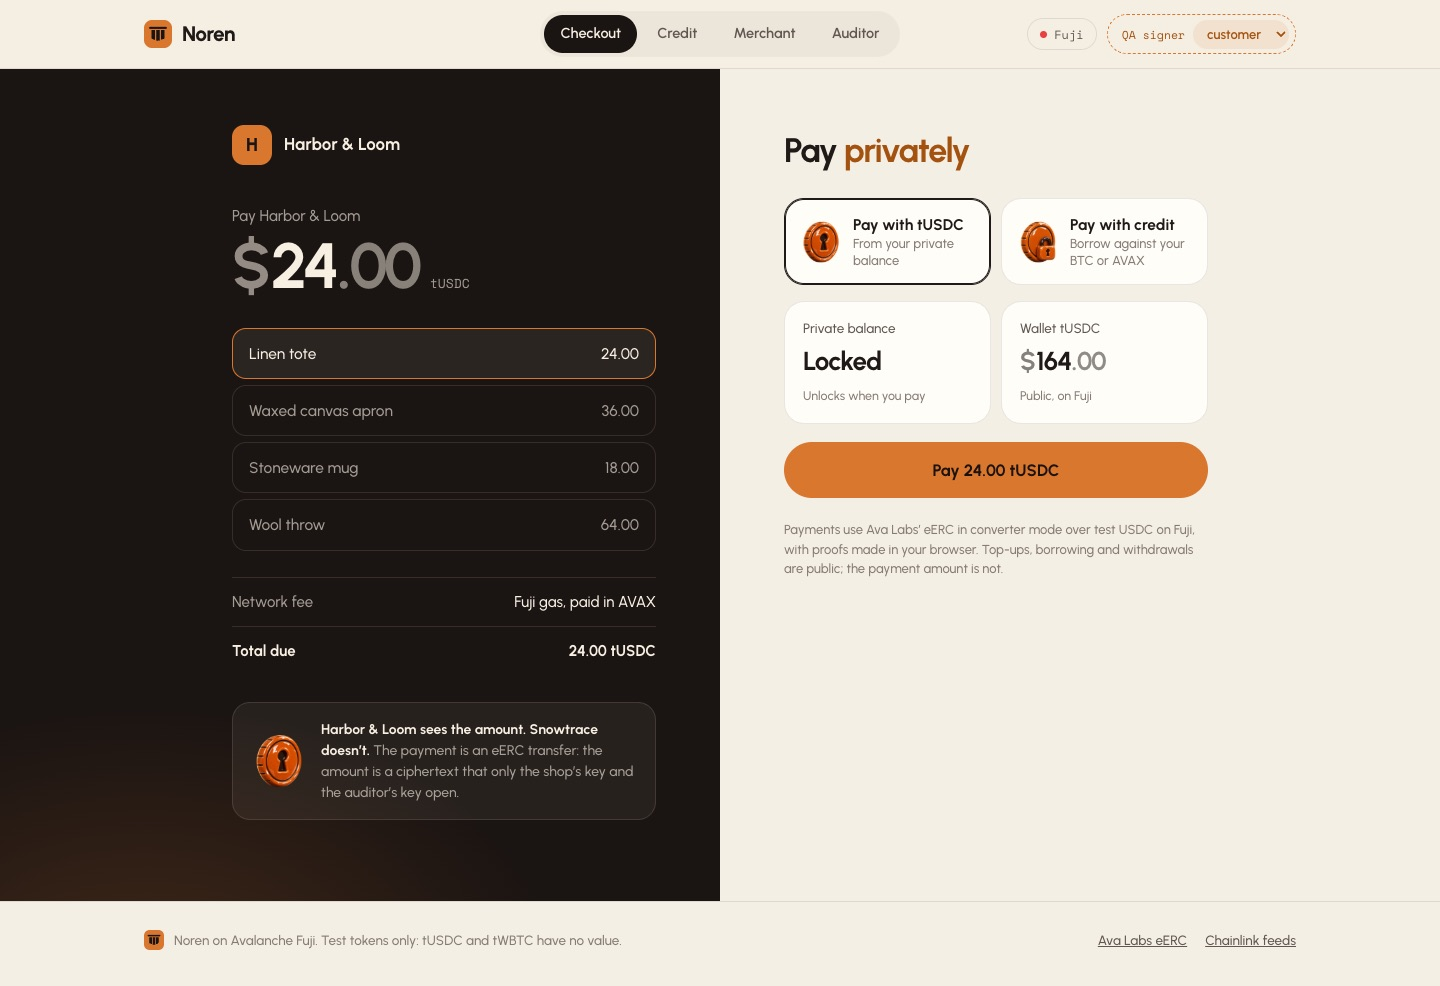
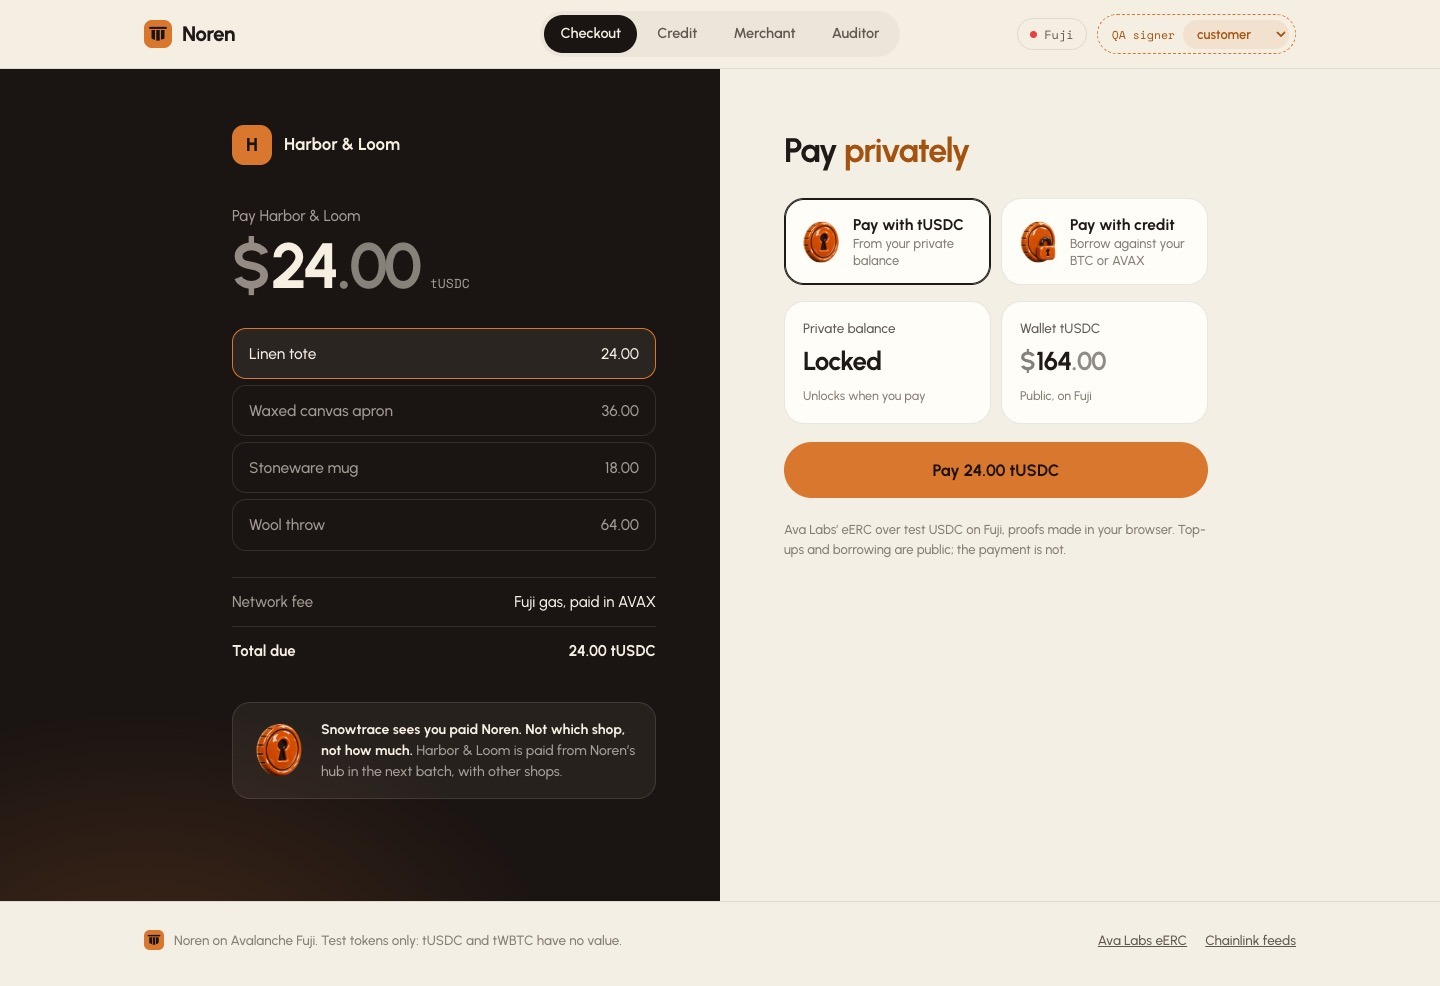
Screenshots: hub judge run, merchant payouts, auditor batch checks, accountant statements, every route at 1440 and 375

Changed region(s): [[0.1562, 0.7302, 0.4375, 0.8215], [0.5312, 0.5172, 0.8438, 0.5781], [0.7188, 0.0304, 0.875, 0.0609]]

diff --git a/README.md b/README.md
@@ -11,7 +11,9 @@ its own key, its accountant gets a copy encrypted to the accountant's key, and t
 
 **Live app:** https://noren-avax.vercel.app (Fuji testnet; test tokens only)
 
-![Checkout after a private payment on Fuji](docs/img/demo-1-private.jpg)
+| Paid through the hub, receipt signed | Merchant: payouts checked ✓, assistant | Auditor: every batch checked ✓ |
+|---|---|---|
+| ![Checkout receipt](docs/img/hub-judge-2-settled.jpg) | ![Merchant](docs/img/hub-merchant-1440.jpg) | ![Auditor](docs/img/hub-auditor-1440.jpg) |
 
 - **Noren Merchant**: open a shop, list items, read private revenue decrypted in your browser, check each payout,
   name an accountant, ask the assistant about your sales, withdraw.
@@ -32,7 +34,8 @@ its own key, its accountant gets a copy encrypted to the accountant's key, and t
 4. **Auditor → Read my statements**: the accountant's view of the same payouts.
 
 **Pay with credit** works the same way from the same wallet (it borrows against the tWBTC from the starter pack). The
-global eERC auditor view needs the auditor key; its screenshot is in `docs/img/`.
+global eERC auditor view needs the auditor key; its screenshot is above (`docs/img/hub-auditor-1440.jpg`). Judge-run
+screenshots: `docs/img/hub-judge-*.jpg`.
 
 ## Live on Avalanche Fuji
 
